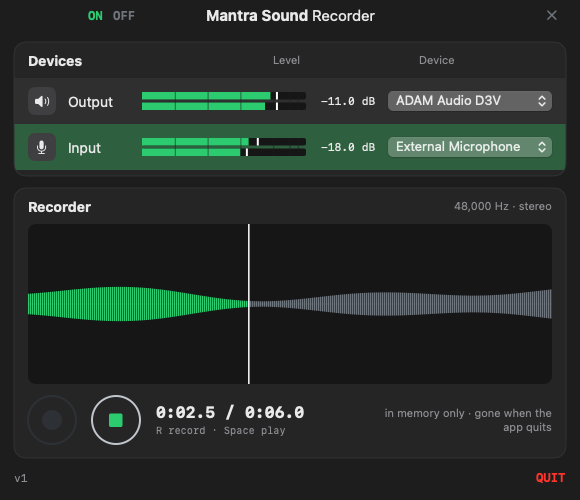
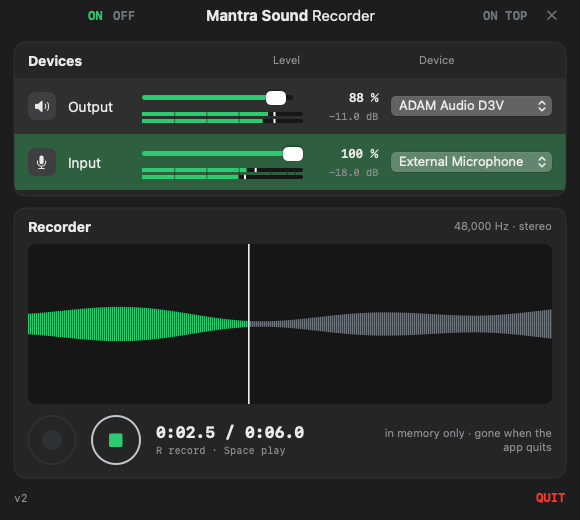
v2: input and output volume (the device's own, SoundSource-style sliders), ON TOP toggle
Claude-Session: https://claude.ai/code/session_01NceKUABt1RrUPTUNQETTX2

diff --git a/app/Audio.swift b/app/Audio.swift
@@ -66,6 +66,65 @@ enum Devices {
     }
 }
 
+/// v2, THE VOLUME (Marko, 31.10.2026: "I am missing the controlling input and output volume"): the device's own
+/// volume, as SoundSource's sliders move it, so the volume keys and System Settings move the same slider. A device
+/// with no volume of its own (BlackHole's input, some interfaces) gets the app's gain instead.
+final class VolumeWatch {
+    let dev: AudioDeviceID
+    private let scope: AudioObjectPropertyScope
+    private let elements: [UInt32]
+    private var block: AudioObjectPropertyListenerBlock?
+
+    init?(dev: AudioDeviceID, input: Bool, onChange: @escaping (Float) -> Void) {
+        self.dev = dev
+        scope = input ? kAudioObjectPropertyScopeInput : kAudioObjectPropertyScopeOutput
+        var found: [UInt32] = []
+        for e: UInt32 in 0...8 {
+            var a = AudioObjectPropertyAddress(mSelector: kAudioDevicePropertyVolumeScalar, mScope: scope, mElement: e)
+            var settable: DarwinBoolean = false
+            if AudioObjectHasProperty(dev, &a), AudioObjectIsPropertySettable(dev, &a, &settable) == noErr, settable.boolValue {
+                found.append(e)
+                if e == 0 { break }                       // the main element is the whole device
+            }
+        }
+        guard !found.isEmpty else { return nil }
+        elements = found
+        let blk: AudioObjectPropertyListenerBlock = { [weak self] _, _ in if let v = self?.value { onChange(v) } }
+        for e in elements {
+            var a = AudioObjectPropertyAddress(mSelector: kAudioDevicePropertyVolumeScalar, mScope: scope, mElement: e)
+            AudioObjectAddPropertyListenerBlock(dev, &a, DispatchQueue.main, blk)
+        }
+        block = blk
+    }
+
+    deinit {
+        guard let blk = block else { return }
+        for e in elements {
+            var a = AudioObjectPropertyAddress(mSelector: kAudioDevicePropertyVolumeScalar, mScope: scope, mElement: e)
+            AudioObjectRemovePropertyListenerBlock(dev, &a, DispatchQueue.main, blk)
+        }
+    }
+
+    var value: Float {
+        var sum: Float = 0
+        for e in elements {
+            var a = AudioObjectPropertyAddress(mSelector: kAudioDevicePropertyVolumeScalar, mScope: scope, mElement: e)
+            var v = Float32(0); var sz = UInt32(4)
+            AudioObjectGetPropertyData(dev, &a, 0, nil, &sz, &v)
+            sum += v
+        }
+        return sum / Float(elements.count)
+    }
+
+    func set(_ v: Float) {
+        for e in elements {
+            var a = AudioObjectPropertyAddress(mSelector: kAudioDevicePropertyVolumeScalar, mScope: scope, mElement: e)
+            var x = Float32(v)
+            AudioObjectSetPropertyData(dev, &a, 0, nil, 4, &x)
+        }
+    }
+}
+
 /// Stereo frames from the input's audio thread to the main thread (Spectral Analyzer's ring, as it is).
 final class Ring {
     let cap = 1 << 19
@@ -144,6 +203,18 @@ final class Recorder: ObservableObject {
     private var dL = [Float](repeating: 0, count: 16384), dR = [Float](repeating: 0, count: 16384)
     private var rawInL: Float = 0, rawInR: Float = 0
 
+    // v2: the volumes, 0…1; on the device when it has one, otherwise the app's own gain (inSoft, outSoft)
+    @Published private(set) var inVolume: Float = 1
+    @Published private(set) var outVolume: Float = 1
+    @Published private(set) var inOnDevice = false
+    @Published private(set) var outOnDevice = false
+    private var inWatch: VolumeWatch?, outWatch: VolumeWatch?
+    private var inSoft: Float = 1, outSoft: Float = 1
+    // read by the audio threads: plain flags, not the watch objects
+    private var inWatchless: Bool { !inOnDeviceFlag }
+    private var outWatchless: Bool { !outOnDeviceFlag }
+    private var inOnDeviceFlag = false, outOnDeviceFlag = false
+
     // the output: a copy of the take the audio thread reads, at the output's own rate (linear interpolation)
     private var outDev: AudioDeviceID = 0, outProc: AudioDeviceIOProcID?
     private var pL: UnsafeMutablePointer<Float>?, pR: UnsafeMutablePointer<Float>?
@@ -162,6 +233,9 @@ final class Recorder: ObservableObject {
         let d = UserDefaults.standard
         inUID = pick(d.string(forKey: "input"), inputs, Devices.defaultDevice(input: true))
         outUID = pick(d.string(forKey: "output"), outputs, Devices.defaultDevice(input: false))
+        if d.object(forKey: "inGain") != nil { inSoft = d.float(forKey: "inGain") }
+        if d.object(forKey: "outGain") != nil { outSoft = d.float(forKey: "outGain") }
+        watchVolumes()
         timer = Timer(timeInterval: 1.0 / 30, repeats: true) { [weak self] _ in self?.tick() }
         RunLoop.main.add(timer!, forMode: .common)
         guard live else { return }
@@ -191,6 +265,33 @@ final class Recorder: ObservableObject {
         let o = pick(outUID, outputs, Devices.defaultDevice(input: false))
         if i != inUID { if recording { stopRecording() }; inUID = i; startInput() }
         if o != outUID { stopPlaying(); outUID = o }
+        watchVolumes()
+    }
+
+    // ---------------------------------------------------------------- the volumes
+    private func watchVolumes() {
+        let i = inputs.first { $0.uid == inUID }, o = outputs.first { $0.uid == outUID }
+        if inWatch?.dev != i?.id || (inWatch == nil && i != nil) {
+            inWatch = i.flatMap { VolumeWatch(dev: $0.id, input: true) { [weak self] v in self?.inVolume = v } }
+        }
+        if outWatch?.dev != o?.id || (outWatch == nil && o != nil) {
+            outWatch = o.flatMap { VolumeWatch(dev: $0.id, input: false) { [weak self] v in self?.outVolume = v } }
+        }
+        inOnDevice = inWatch != nil; outOnDevice = outWatch != nil
+        inOnDeviceFlag = inOnDevice; outOnDeviceFlag = outOnDevice
+        inVolume = inWatch?.value ?? inSoft
+        outVolume = outWatch?.value ?? outSoft
+    }
+
+    func setVolume(input: Bool, _ v: Float) {
+        let v = min(max(v, 0), 1)
+        if input {
+            if let w = inWatch { w.set(v) } else { inSoft = v; if live { UserDefaults.standard.set(v, forKey: "inGain") } }
+            inVolume = v
+        } else {
+            if let w = outWatch { w.set(v) } else { outSoft = v; if live { UserDefaults.standard.set(v, forKey: "outGain") } }
+            outVolume = v
+        }
     }
 
     // ---------------------------------------------------------------- choosing
@@ -198,6 +299,7 @@ final class Recorder: ObservableObject {
         guard uid != inUID, !recording else { return }
         inUID = uid
         if live { UserDefaults.standard.set(uid, forKey: "input") }
+        watchVolumes()
         startInput()
     }
 
@@ -207,6 +309,7 @@ final class Recorder: ObservableObject {
         stopPlaying()
         outUID = uid
         if live { UserDefaults.standard.set(uid, forKey: "output") }   // a test never changes his choice
+        watchVolumes()
         if was { play() }
     }
 
@@ -247,6 +350,8 @@ final class Recorder: ObservableObject {
                     } else {
                         for i in 0..<n { l[i] = d0[i]; r[i] = d0[i] }     // a mono microphone: the same on both sides
                     }
+                    let g = self.inWatchless ? self.inSoft : 1
+                    if g != 1 { for i in 0..<n { l[i] *= g; r[i] *= g } }
                     for i in 0..<n { pl = max(pl, abs(l[i])); pr = max(pr, abs(r[i])) }
                     self.ring.write(l.baseAddress!, r.baseAddress!, n)
                 }
@@ -336,6 +441,7 @@ final class Recorder: ObservableObject {
             var pos = self.pPos
             let step = self.pStep, N = self.pN
             var pl: Float = 0, pr: Float = 0
+            let g = self.outWatchless ? self.outSoft : 1
             for i in 0..<n {
                 var l: Float = 0, r: Float = 0
                 let k = Int(pos)
@@ -343,6 +449,7 @@ final class Recorder: ObservableObject {
                     let f = Float(pos - Double(k))
                     l = L[k] + (L[k + 1] - L[k]) * f; r = R[k] + (R[k + 1] - R[k]) * f
                     pos += step
+                    l *= g; r *= g
                 } else { self.pDone = true }
                 pl = max(pl, abs(l)); pr = max(pr, abs(r))
                 if ch >= 2 {

diff --git a/app/App.swift b/app/App.swift
@@ -6,7 +6,7 @@
 import SwiftUI
 import AppKit
 
-let VERSION = 1
+let VERSION = 2
 let RELEASES = URL(string: "https://github.com/markoboskoauroville/MANTRA_SOUND_RECORDER/releases/latest")!
 
 enum Ink {
@@ -57,7 +57,7 @@ struct Root: View {
         }
         .ignoresSafeArea(.container, edges: .top)          // the top row sits in the hidden title bar, beside the traffic lights
         .background(Ink.ground)
-        .frame(minWidth: 580, idealWidth: 720, maxWidth: .infinity, minHeight: 500, idealHeight: 520, maxHeight: .infinity)
+        .frame(minWidth: 580, idealWidth: 720, maxWidth: .infinity, minHeight: 520, idealHeight: 540, maxHeight: .infinity)
         .environment(\.colorScheme, .dark)
         .onReceive(Timer.publish(every: 2, on: .main, in: .common).autoconnect()) { _ in
             let m = Permissions.missing
@@ -69,6 +69,8 @@ struct Root: View {
 /// ON / OFF, the name, PERMISSIONS while one is missing, ✕ (MANTRA_MANIFEST swift-apps.md)
 struct TopRow: View {
     let missing: [String]
+    // v2 (Marko, 31.10.2026: "add a toggle button always on top in the main user interface"): green = above every window
+    @AppStorage("onTop") private var onTop = false
     var body: some View {
         ZStack {
             (Text("Mantra Sound").fontWeight(.bold) + Text(" Recorder").fontWeight(.regular))
@@ -79,6 +81,9 @@ struct TopRow: View {
                 Text("OFF").foregroundStyle(Ink.grey)
                     .contentShape(Rectangle()).onTapGesture { NSApp.terminate(nil) }
                 Spacer()
+                Text("ON TOP").foregroundStyle(onTop ? Ink.green : Ink.grey)
+                    .contentShape(Rectangle()).onTapGesture { onTop.toggle(); TopRow.float(onTop) }
+                    .help("Always on top: green, the window stays above every other window")
                 if !missing.isEmpty {
                     Text("PERMISSIONS").foregroundStyle(Ink.amber)
                         .contentShape(Rectangle()).onTapGesture { Permissions.openMissing() }
@@ -91,6 +96,13 @@ struct TopRow: View {
             .font(.system(size: 12, weight: .bold, design: .monospaced))
         }
         .frame(height: 30)
+        .onAppear { DispatchQueue.main.async { TopRow.float(onTop) } }
+    }
+
+    static func float(_ on: Bool) {
+        for w in NSApp.windows where w.contentView is NSHostingView<Root> || w.title.hasPrefix("Mantra Sound Recorder") {
+            w.level = on ? .floating : .normal
+        }
     }
 }
 
@@ -123,8 +135,10 @@ struct DevicesPanel: View {
             Text("Device").frame(width: 230)
         }.font(.system(size: 11)).foregroundStyle(Ink.dim).padding(.leading, 160))) {
             DeviceRow(icon: "speaker.wave.2.fill", name: "Output", meter: r.outMeter,
+                      volume: r.outVolume, onDevice: r.outOnDevice, setVolume: { r.setVolume(input: false, $0) },
                       devices: r.outputs, uid: r.outUID, enabled: true, fill: Ink.rowGrey) { r.chooseOutput($0) }
             DeviceRow(icon: "mic.fill", name: "Input", meter: r.inMeter,
+                      volume: r.inVolume, onDevice: r.inOnDevice, setVolume: { r.setVolume(input: true, $0) },
                       devices: r.inputs, uid: r.inUID, enabled: !r.recording, fill: Ink.rowGreen) { r.chooseInput($0) }
             if let e = r.error {
                 Text(e).font(.system(size: 11)).foregroundStyle(Ink.amber)
@@ -138,6 +152,9 @@ struct DevicesPanel: View {
 struct DeviceRow: View {
     let icon: String, name: String
     let meter: Meter
+    let volume: Float
+    let onDevice: Bool
+    let setVolume: (Float) -> Void
     let devices: [Device]
     let uid: String
     let enabled: Bool
@@ -149,22 +166,51 @@ struct DeviceRow: View {
             Image(systemName: icon).font(.system(size: 13)).foregroundStyle(Ink.text)
                 .frame(width: 28, height: 28).background(RoundedRectangle(cornerRadius: 7).fill(Ink.tile))
             Text(name).font(.system(size: 14)).foregroundStyle(Ink.text).frame(width: 62, alignment: .leading)
-            MeterView(m: meter).frame(minWidth: 110).frame(height: 18)
-            Text(readout).font(.system(size: 11, design: .monospaced)).foregroundStyle(Ink.text)
-                .frame(width: 58, alignment: .trailing)
+            VStack(spacing: 6) {
+                VolumeSlider(value: volume, set: setVolume).frame(height: 16)
+                    .help(onDevice ? "The device's own volume (the volume keys move it too)" : "This device has no volume of its own: the app's gain")
+                MeterView(m: meter).frame(height: 11)
+            }
+            .frame(minWidth: 110)
+            VStack(alignment: .trailing, spacing: 5) {
+                Text("\(Int((volume * 100).rounded())) %").font(.system(size: 12, weight: .semibold, design: .monospaced))
+                Text(readout).font(.system(size: 10, design: .monospaced)).foregroundStyle(Ink.dim)
+            }
+            .foregroundStyle(Ink.text).frame(width: 64, alignment: .trailing)
             Picker("", selection: Binding(get: { uid }, set: { choose($0) })) {
                 ForEach(devices) { d in Text(d.name).tag(d.uid) }
             }
             .labelsHidden().pickerStyle(.menu).disabled(!enabled)
             .frame(minWidth: 150, maxWidth: 230)
         }
-        .padding(.horizontal, 14).frame(height: 46)
+        .padding(.horizontal, 14).frame(height: 56)
         .background(fill)
     }
 
     var readout: String {
         let p = max(meter.holdL, meter.holdR)
         return p <= -60 ? "−∞ dB" : String(format: "%.1f dB", p)
+    }
+}
+
+/// SoundSource's slider: a green track up to the value, a white knob; a click or drag sets it.
+struct VolumeSlider: View {
+    let value: Float
+    let set: (Float) -> Void
+    var body: some View {
+        GeometryReader { g in
+            let knobW: CGFloat = 20, w = max(1, g.size.width - knobW)
+            let x = w * CGFloat(min(max(value, 0), 1))
+            ZStack(alignment: .leading) {
+                Capsule().fill(Ink.well).frame(height: 5).padding(.horizontal, knobW / 2)
+                Capsule().fill(Ink.green).frame(width: x + knobW / 2, height: 5)
+                RoundedRectangle(cornerRadius: 5).fill(Color.white).frame(width: knobW, height: 14)
+                    .shadow(color: .black.opacity(0.4), radius: 1, y: 1).offset(x: x)
+            }
+            .frame(height: g.size.height)
+            .contentShape(Rectangle())
+            .gesture(DragGesture(minimumDistance: 0).onChanged { v in set(Float((v.location.x - knobW / 2) / w)) })
+        }
     }
 }
 
@@ -356,7 +402,7 @@ struct RecorderApp: App {
         WindowGroup("Mantra Sound Recorder (Mantra)") { Root(r: REC) }
             .windowStyle(.hiddenTitleBar)
             .windowResizability(.contentMinSize)
-            .defaultSize(width: 720, height: 520)
+            .defaultSize(width: 720, height: 540)
             .commands { CommandGroup(replacing: .newItem) {} }
     }
 }

diff --git a/TAKEOVER.md b/TAKEOVER.md
@@ -1,6 +1,6 @@
 # TAKEOVER: Mantra Sound Recorder (Mantra)
 
-**Version 1** (31.10.2026) · repo markoboskoauroville/MANTRA_SOUND_RECORDER (private) ·
+**Version 2** (31.10.2026) · repo markoboskoauroville/MANTRA_SOUND_RECORDER (private) ·
 `/Applications/Mantra Sound Recorder (Mantra).app`, bundle id `community.auroville.mantrasoundrecorder`.
 The reasons behind the choices are in [LESSONS.md](LESSONS.md).
 
@@ -13,9 +13,9 @@ Input row, each with its meter and device menu.
 ## The window, top to bottom
 
 - **First row** (in the hidden title bar, beside the traffic lights): ON (green) / OFF (grey; quits), the name
-  centred, PERMISSIONS (amber, only while the microphone is not allowed; a click asks once, then opens the
+  centred, ON TOP (green: the window floats above every other window; kept in UserDefaults `onTop`), PERMISSIONS (amber, only while the microphone is not allowed; a click asks once, then opens the
   Microphone page of System Settings), ✕ (closes the window, the app stays on).
-- **Devices**: Output and Input rows: icon, name, a stereo meter (L over R, -60…0 dBFS, green to -12, amber to -3,
+- **Devices**: Output and Input rows: icon, name, a volume slider (SoundSource's: green track, white knob) with its % over a stereo meter (L over R, -60…0 dBFS, green to -12, amber to -3,
   red above, white tick = peak held 1.5 s, the bar falls 24 dB/s), the held peak in dB, the device menu. The input
   menu is locked while recording. Choices are kept in UserDefaults by device UID; a vanished device falls back to
   the Mac's default. An amber line under the rows shows a device error.
@@ -34,6 +34,10 @@ Input row, each with its meter and device menu.
   into the take (`takeL`, `takeR`) while recording, and makes the waveform: the loudest sample of every 256 frames.
 - The **output** IOProc runs only while playing. It reads a copy of the take at the output device's own rate (step
   = take rate / output rate, linear interpolation), so the device's rate is never changed.
+- **Volume**: `VolumeWatch` moves the device's own volume (kAudioDevicePropertyVolumeScalar, element 0, or each
+  channel element as on the ADAM: 1 and 2) and listens to it, so the volume keys and System Settings move the slider.
+  A device without a settable volume gets the app's own gain (`inSoft` / `outSoft`, UserDefaults `inGain` / `outGain`),
+  applied in the IOProcs.
 - **Deleting**: the take is never written to disk. QUIT, OFF and ⌘Q call `forget()` (devices released, arrays
   emptied); a crash leaves nothing either. Closing the window keeps the app ON and the take with it (swift-apps.md).
 
@@ -69,5 +73,6 @@ whose name contains the word and never changes the saved choice. Test audio goes
   ring drain and the live red waveform have not run with a real signal.
 - Playback into BlackHole 2ch was measured (31.10.2026): 3.05 s of 440 Hz arrived; the level was ~17 dB under the
   take because BlackHole's own volume slider attenuates (seen before in Spectral Analyzer).
+- v2 volume sliders not yet moved by a hand; the ADAM read back 88 % as SoundSource shows.
 - Not tried: device unplugged during recording or playing, devices with more than two channels, a take of more
   than a few minutes (memory: about 23 MB a minute).

diff --git a/LESSONS.md b/LESSONS.md
@@ -17,3 +17,11 @@ Appended, never rewritten. Newest last.
 - **Min height 500.** At 480 the footer (v1 / QUIT) fell under the window edge in the off-screen picture.
 - **SoundSource's look vs CAMERA.** Marko asked for SoundSource's look, so panels and boxes stay; from CAMERA come
   the colour roles, the record circle, ON/OFF, QUIT and PERMISSIONS.
+
+## 31.10.2026, v2
+
+- **The device's own volume, not a gain in the app.** SoundSource's sliders move the device, so the volume keys and
+  his other apps agree with this one. Measured: the ADAM D3V has no main element, only channels 1 and 2; External
+  Microphone, BlackHole and MacBook Pro Microphone have element 0. A device with none falls back to the app's gain.
+- **The audio threads read plain Bools and Floats**, never the VolumeWatch objects that the main thread replaces.
+- **ON TOP** on the first row, a CAMERA toggle word (green on, grey off), `NSWindow.level = .floating`.

diff --git a/momentaryupdates.md b/momentaryupdates.md
@@ -20,11 +20,11 @@
 
 | # | Item | Status |
 |---|---|---|
-| 1 | PERMISSIONS visible only while a permission is missing, in every app (already the rule: MANTRA_MANIFEST swift-apps.md; v1 does it) | check |
-| 2 | Input volume and output volume controls | in progress |
+| 1 | PERMISSIONS visible only while a permission is missing, in every app (already the rule: MANTRA_MANIFEST swift-apps.md; v1 does it) | done: v1 and v2 already hide it once allowed (seen in his window, 31.10.2026); the rule is MANTRA_MANIFEST swift-apps.md |
+| 2 | Input volume and output volume controls | done in v2 |
 
 > Also add a toggle button always on top in the main user interface.
 
 | # | Item | Status |
 |---|---|---|
-| 3 | Always-on-top toggle in the main window | in progress |
+| 3 | Always-on-top toggle in the main window | done in v2 |
